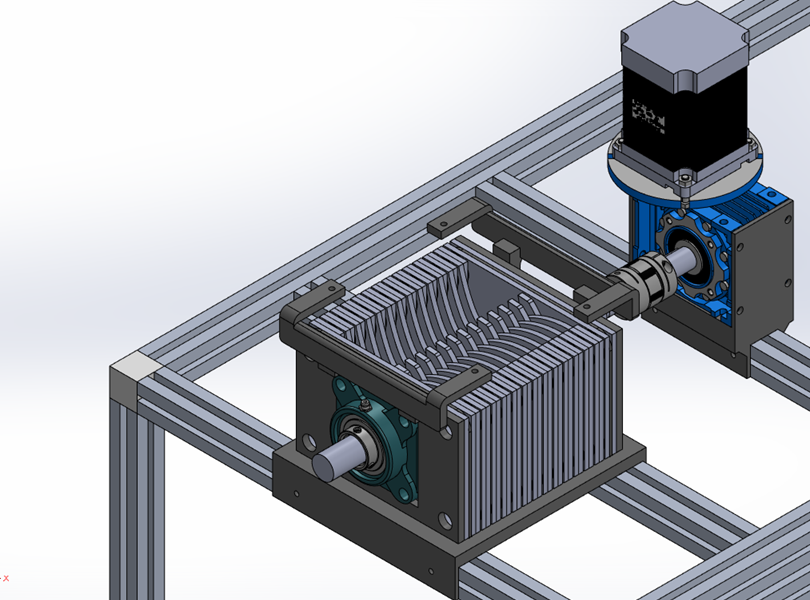
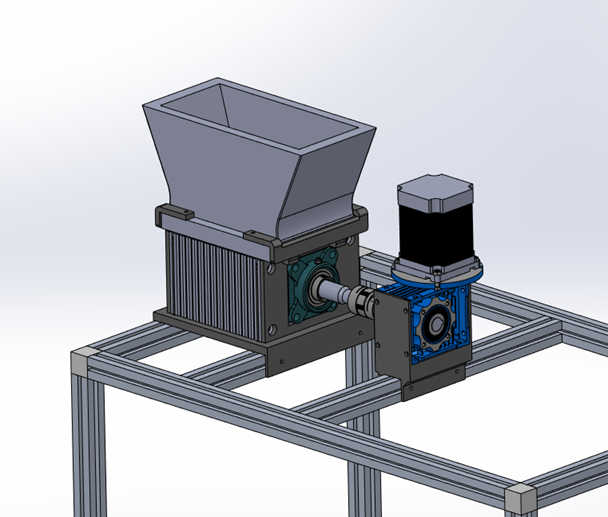
updated shredder

diff --git a/_portfolio/shredder.md b/_portfolio/shredder.md
@@ -3,8 +3,8 @@ title: "UBC Rapid Filament Shredder"
 header:
     teaser: /assets/images/shredder_assembly.png
 excerpt: "Design, verification, and sourcing of parts for filament shredding system"
-date_text: "Jan 2025"
-date: 2025-01-31
+date_text: "Mar 2025"
+date: 2025-03-31
 categories:
   - Design Team
   - Complete
@@ -12,28 +12,34 @@ tags:
   - MATLAB
   - SOLIDWORKS
   - Machine Design
+  - MS Excel
 ---
 
+![image-right]({{ site.url }}{{ site.baseurl }}/assets/images/shaft_assembly.png){: .align-right}
+
 ### Goal 
-Design the shaft and blades for a filament shredder, sourcing other necessary parts like bearings or couplings. The following assumptions were made:
+- Design the shaft and blades for a filament shredder
+- Source other necessary parts like bearings or couplings
+- Validate results with stress calculations and simulations 
 
-- Only PLA will be shredded
-- The maximum thickness of PLA will be 5mm
-- The shredded material will make full contact with the blade's shredding area
+### My responsibilities
+- Researched typical filament shredder blade designs, number of blades, size, etc.
+- Used MATLAB script to calculate shear force and bending diagrams on shaft based on blade sizes
+- Ran shaft stress calculations in Excel to determine minimum shaft diameter and select material
+- Modelled shaft and blades in SolidWorks and performed static FEA simulations on blades
 
-### Process
-Research was done on typical filament shredders, including blade designs, number of blades, size, and typical issues. 
-Used MATLAB to calculate shear force and bending diagrams on shaft, as well as find minimum shaft diameter. 
-
-Modelled blades and shaft in SOLIDWORKS. Performed static simulations on blades. Sourced parts from metal supermarkets and waterjet cut blades.
-<figure>
-  <a href="/portfolio/assets/images/shredder_blade_sim.png" class="image-popup" title="Static Blade Simulation">
-    <img src="/portfolio/assets/images/shredder_blade_sim.png">
-  </a>
-</figure>
 
 ### Results
-The final design involved a hexagonal shaft with 15 dual-sided blades, mounted with needle roller thrust bearings and radial bearings. See updates on the project at https://ubc-rapid.com/#/filament_recycler 
+- Achieved design factor of 2
+- Produced BOM and drawings for all machine parts
+- Project build is in-progress: see updates at https://ubc-rapid.com/#/filament_recycler 
 
-### Retrospection
-The system should have been analyzed to find its resonant frequencies, as well as fatigue. Fillets were also not included in the original design for the shaft which would have led to high stress concentrations at the changes in diameter.
+<figure class="half">
+    <a href="/portfolio/assets/images/shredder_blade_sim.png" title="Static Blade Simulation"><img src="/portfolio/assets/images/shredder_blade_sim.png"></a>
+    <a href="/portfolio/assets/images/shredder_bending_diagram.png" title="MATLAB Bending Case"><img src="/portfolio/assets/images/shredder_bending_diagram.png"></a>
+</figure>
+
+<figure>
+    <a href="/portfolio/assets/images/shredder_assembly.png" title="Shredder Full Assembly"><img src="/portfolio/assets/images/shredder_assembly.png"></a>
+</figure>
+
